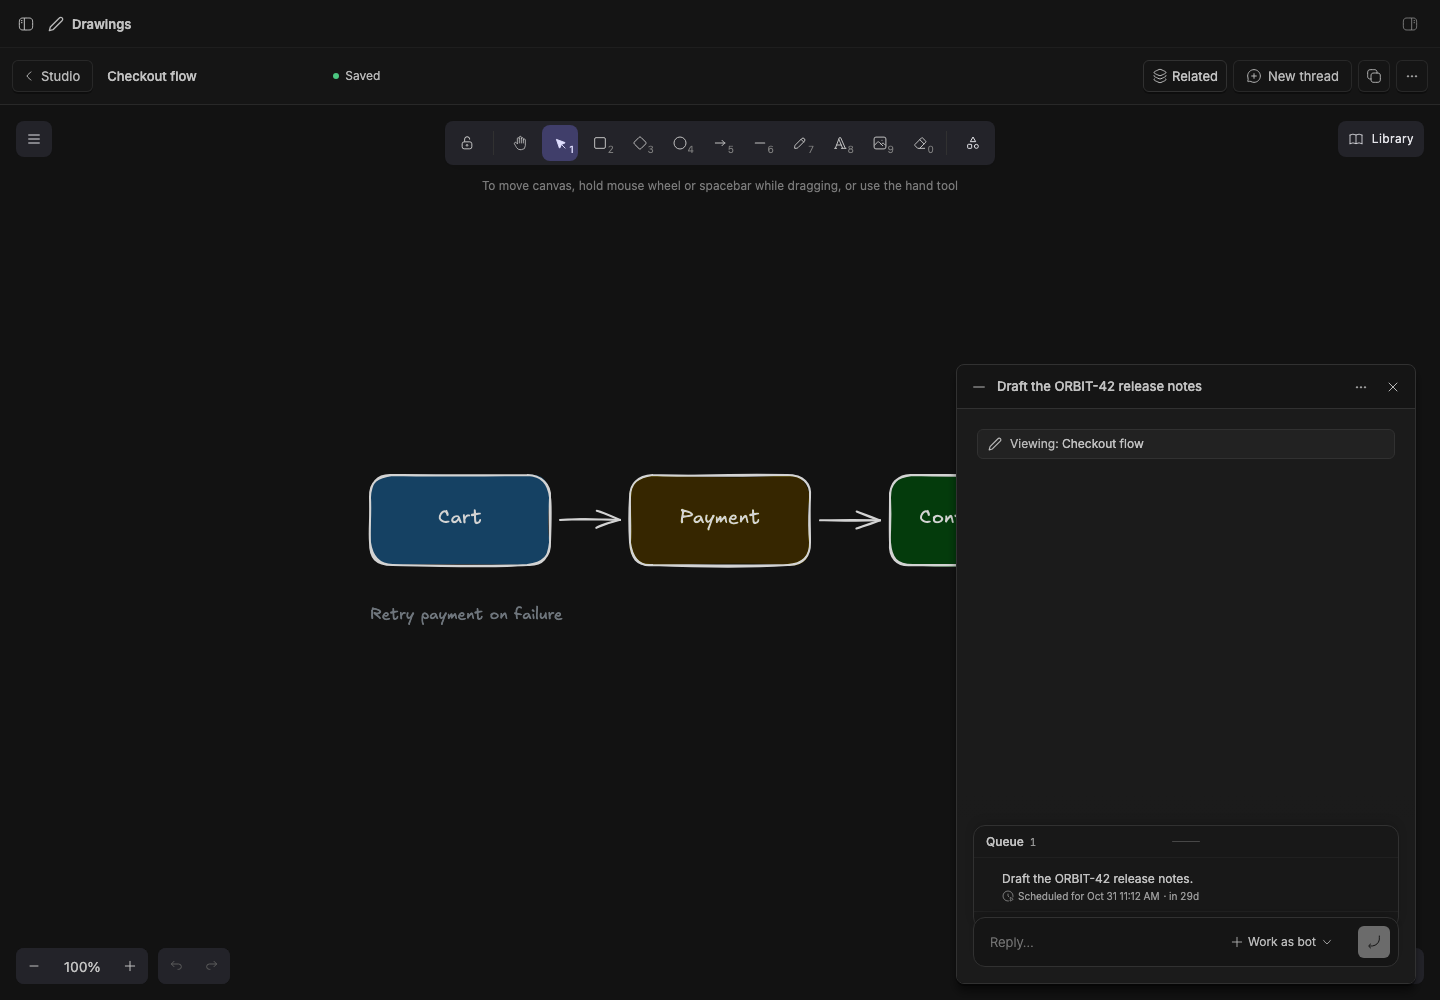
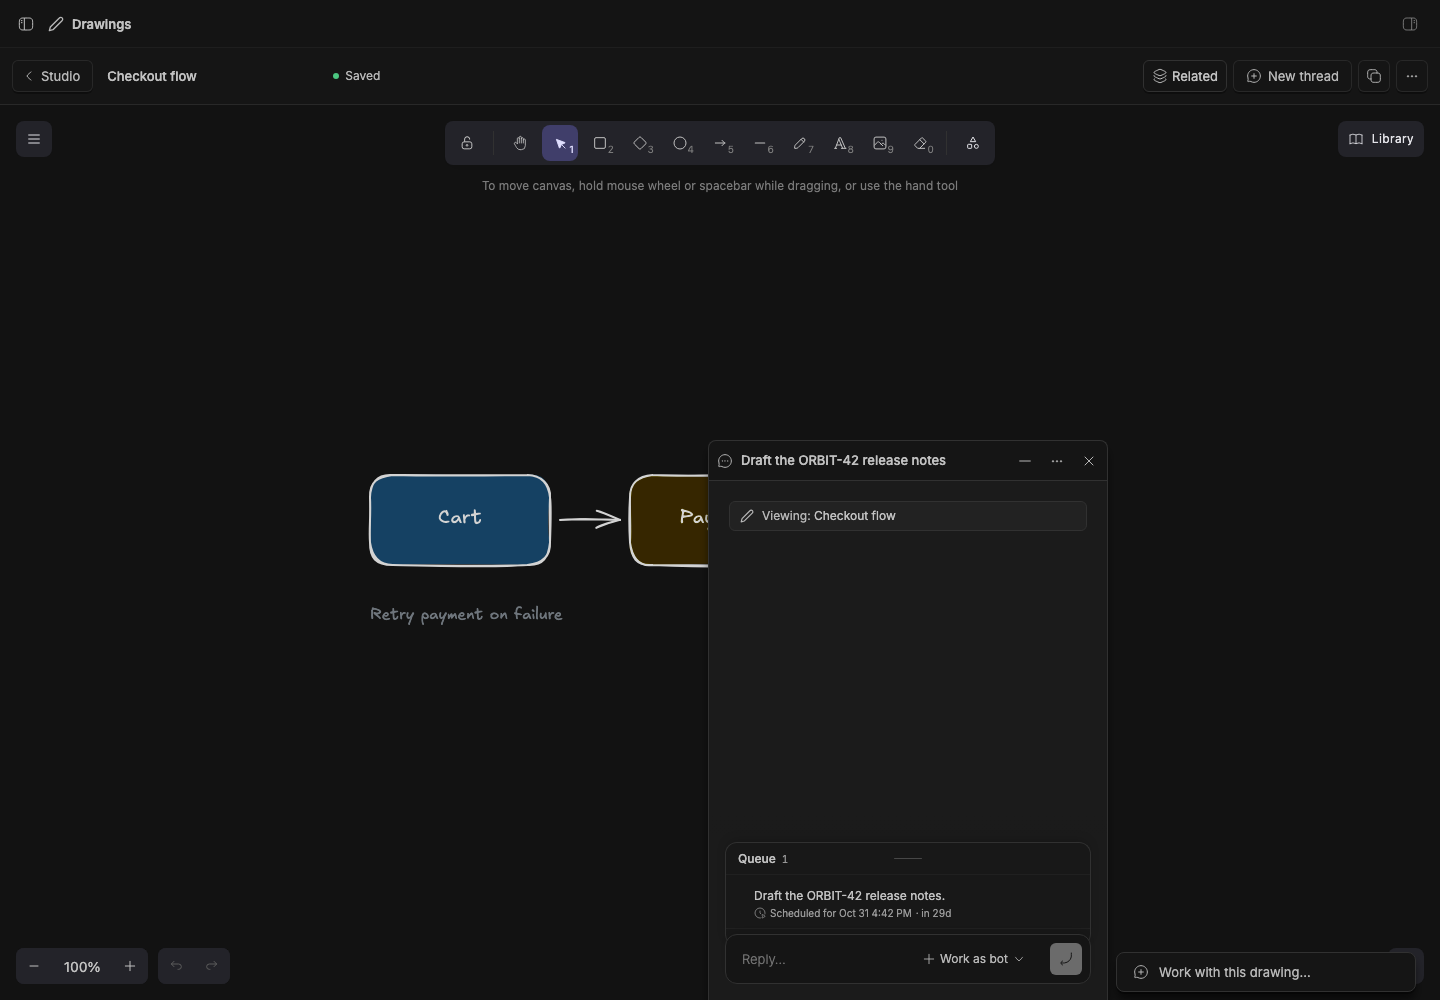
Capture Float's staged preview and Studio Chat in a Float window

diff --git a/packages/bb-studio-float/README.md b/packages/bb-studio-float/README.md
@@ -1,0 +1,65 @@
+# Float
+
+> **Float** is part of **BB Studio**, a suite of plugins for writing, talking, drawing, tracking tasks, running bot teams, and keeping what your agents make. See the [suite overview](../../README.md).
+
+Windows along the bottom of the screen for anything you'd open from the
+sidebar: threads, channels, Studio items and Studio views. Keep several open
+while you work somewhere else.
+
+## Staged preview
+
+![Live BB screenshot of Float windows along the bottom of the screen](assets/staged-preview.png)
+
+Captured from a staged BB (`node scripts/staged-bb.mjs start`): the seeded
+"Draft the ORBIT-42 release notes" thread, a Studio Teams channel, and a
+Studio page each floated from their sidebar menus. They sit side by side along
+the bottom of the screen, while the main view shows something else.
+
+## What you get
+
+- **Float from the sidebar.** **Float** is in the menu of every thread row (with
+  [Studio Sidebar](../bb-studio-sidebar)), every channel row (with
+  [Studio Teams](../bb-studio-teams)), and every Studio tab (with
+  [Studio](../bb-studio)).
+- **Float this view.** The palette's "Float: float this view" floats the
+  Studio item or view on screen, or else the thread.
+- **Several at once.** New windows open at the right. When they don't all fit,
+  the oldest go into a menu at the left end of the row; pick one to bring it
+  back. Phones and narrow windows show one window at a time.
+- **Minimize** a window to its title bar, and click the title to open it again.
+  Its ⋯ menu opens it full, or in a split for threads.
+- **Mod+Shift+J** hides every window and shows them again. You can rebind it
+  in BB's keyboard settings.
+
+The windows are kept per browser window and survive a reload.
+
+## How it works
+
+Float draws the windows, and a thread window is BB's `ThreadChat`. Any other
+window shows another plugin's nav panel. BB has no way to put one plugin's
+view inside another's, so the plugin that owns the path renders its panel
+into the window through a portal. The shared kit's `FloatPanels` does this
+(`packages/bb-studio-kit/src/app/float.tsx`). Pages, Draw, Tables, Tasks,
+Talk, Artifacts and Studio render it, so their items and views can float.
+Other plugins open windows with the kit's `openFloat`.
+
+[Studio Chat](../bb-studio-chat) puts its "Work with this…" bar at the
+right end of the row, and adds a "Viewing" chip to thread windows.
+
+More in [docs/float.md](../../docs/float.md).
+
+## Limits
+
+- Links inside a floated item or view open in the main view, not the window.
+- A view that can't show in a window says so, with a button to open it.
+- An item open both in a window and in the main view runs two editors, each
+  saving on its own.
+
+## Develop
+
+```sh
+pnpm install
+pnpm --filter @bb-studio/float test
+pnpm --filter @bb-studio/float typecheck
+bb plugin build packages/bb-studio-float
+```
